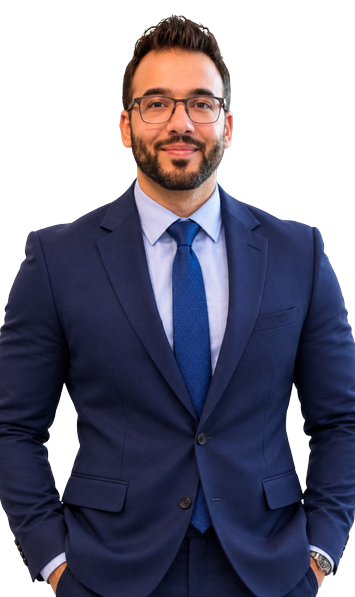
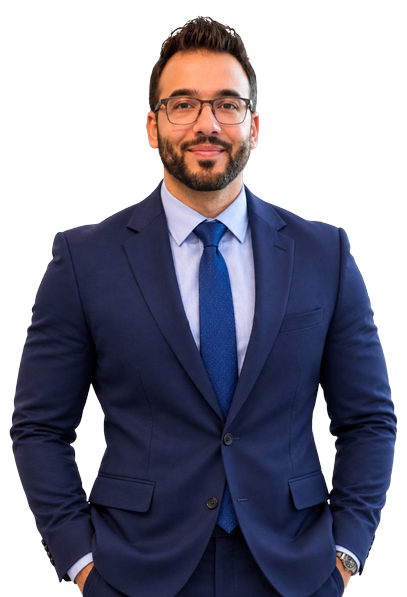
Saad Photo update

diff --git a/src/components/templates/royal-collection-one/royal-collection.module.css b/src/components/templates/royal-collection-one/royal-collection.module.css
@@ -2340,17 +2340,20 @@
  */
 @media (max-width: 767px) {
   .aboutHasFullPortrait {
+    display: flow-root;
     position: relative;
     align-items: start;
-    grid-template-columns: 30% minmax(0, 1fr);
-    gap: 8px;
     overflow: visible;
   }
 
+  /* Phone only: float the visible figure so the description sits beside it, then continues full width underneath. */
   .aboutHasFullPortrait .aboutImage {
+    float: left;
     position: relative;
-    align-self: stretch;
-    width: auto;
+    align-self: auto;
+    width: 38%;
+    aspect-ratio: 448 / 670;
+    margin: 0 12px 0 0;
     min-height: 0;
     background: none;
     overflow: visible;
@@ -2362,9 +2365,9 @@
   }
 
   .aboutHasFullPortrait .aboutCopy {
-    grid-column: 2;
     position: relative;
     z-index: 1;
+    min-width: 0;
   }
 
   .aboutHasFullPortrait .aboutCopy h2 {
@@ -2393,17 +2396,17 @@
   }
 
   .aboutHasFullPortrait .aboutPhoto {
-    top: 0;
-    right: 0;
+    top: -2.537%;
+    right: auto;
     bottom: auto;
-    left: auto;
-    width: auto;
-    height: 100%;
-    max-width: 210%;
-    max-height: 100%;
-    object-fit: contain;
-    object-position: right center;
-    transform: translateX(29.2%);
+    left: -21.875%;
+    width: 152.232%;
+    height: 151.045%;
+    max-width: none;
+    max-height: none;
+    object-fit: fill;
+    object-position: left top;
+    transform: translateY(8px);
   }
 
   .shell {
@@ -2928,7 +2931,7 @@
     width: auto;
     height: auto;
     max-width: 46vw;
-    aspect-ratio: 369 / 621;
+    aspect-ratio: 407 / 597;
     flex: 0 0 auto;
     object-fit: contain;
     object-position: center bottom;

diff --git a/src/lib/tenancy/templates/resolve-royal-collection-view.ts b/src/lib/tenancy/templates/resolve-royal-collection-view.ts
@@ -166,11 +166,15 @@ const HIGH_OCTANE_BROKERAGE_ADDRESS = "5111 New St.\nBurlington, ON, L7L1V2";
  * Another workspace never receives it.
  */
 export const HIGH_OCTANE_APPROVED_AGENT_PORTRAIT_URL =
-  "/media/royal-collection/high-octane/saad-qureshi-portrait.png?v=4";
+  "/media/royal-collection/high-octane/saad-qureshi-portrait.png?v=5";
 
 /** Full-length cutout. Phone about panel only. */
 const HIGH_OCTANE_FULL_BODY_PORTRAIT_URL =
   "/media/royal-collection/high-octane/saad-qureshi-portrait-full.png?v=1";
+
+/** Public Meet Saad copy. A saved agent bio still replaces it. */
+const HIGH_OCTANE_AGENT_BIO =
+  "I've spent over 10 years negotiating for a living, in sales across Canada and overseas. Now I put that experience to work for Niagara buyers and sellers. I prepare hard, read the other side, and protect your number from the first offer to closing. I also come from energy-efficiency sales, so I'll tell you what a home costs to run.";
 
 const HIGH_OCTANE_HERO_PORTRAIT_COPY = {
   name: "Saad Qureshi",
@@ -403,7 +407,7 @@ export function resolveRoyalCollectionView(
     firstName: agentName ? firstNameFrom(agentName) : null,
     title: professional.agent.designation ?? brand.agent?.title ?? null,
     tagline: brand.tagline?.trim() || null,
-    bio: brand.agent?.bio?.trim() || null,
+    bio: brand.agent?.bio?.trim() || (stagingWorkspace ? HIGH_OCTANE_AGENT_BIO : null),
     photoUrl: uploadedPhotoUrl,
     resolvedAgentPortraitUrl,
     phone: professional.agent.cellPhone ?? brand.agent?.phone ?? null,

diff --git a/scripts/high-octane-staging-presentation-selftest.ts b/scripts/high-octane-staging-presentation-selftest.ts
@@ -109,6 +109,16 @@ function brand(overrides: Partial<MarketingPresentationBrand> = {}): MarketingPr
 const stagingView = resolveRoyalCollectionView(brand());
 assert.equal(stagingView.email, "saad@highoctaneniagara.ca");
 assert.equal(stagingView.agentName, "Saad Qureshi");
+assert.match(stagingView.bio ?? "", /negotiating for a living/);
+assert.match(stagingView.bio ?? "", /what a home costs to run/);
+assert.equal(
+  resolveRoyalCollectionView(
+    brand({
+      agent: { ...brand().agent!, bio: "Custom biography." },
+    }),
+  ).bio,
+  "Custom biography.",
+);
 assert.equal(stagingView.phone, "289-501-7755");
 assert.equal(stagingView.brokerage.name, "Right at Home Realty Brokerage");
 assert.equal(stagingView.brokerage.address, "5111 New St.\nBurlington, ON, L7L1V2");
@@ -310,6 +320,7 @@ assert.equal(houzzat.storyMainUrl, null);
 assert.equal(houzzat.storyInsetUrl, null);
 assert.equal(houzzat.valuationImageUrl, null);
 assert.equal(houzzat.mobileAboutPortraitUrl, null);
+assert.equal(houzzat.bio, null);
 assert.equal(JSON.stringify(houzzat.markets), JSON.stringify(["Mississauga"]));
 assert.equal(JSON.stringify(houzzat).includes("/media/royal-collection/high-octane/"), false);
 assert.equal(
